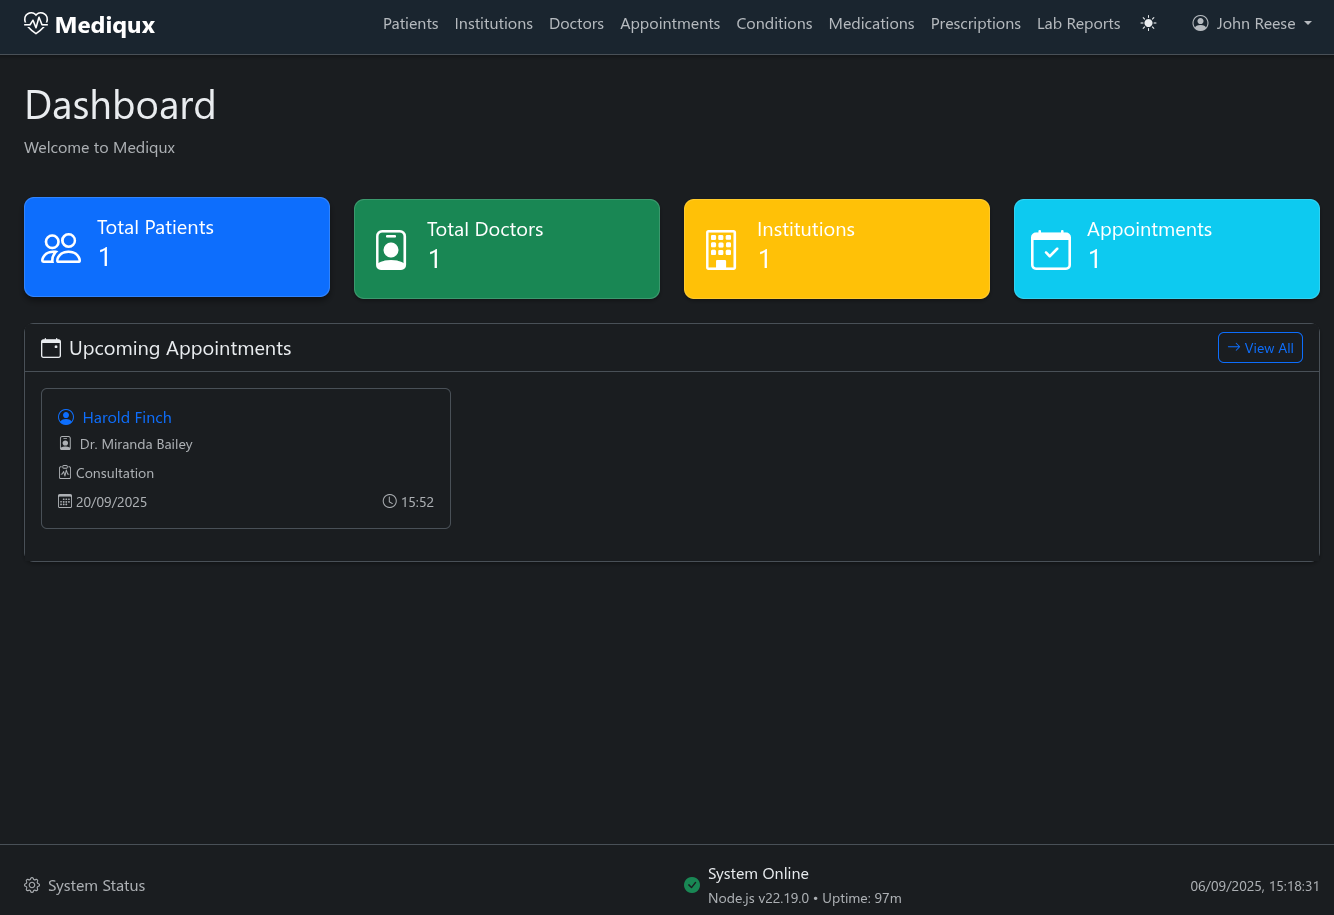
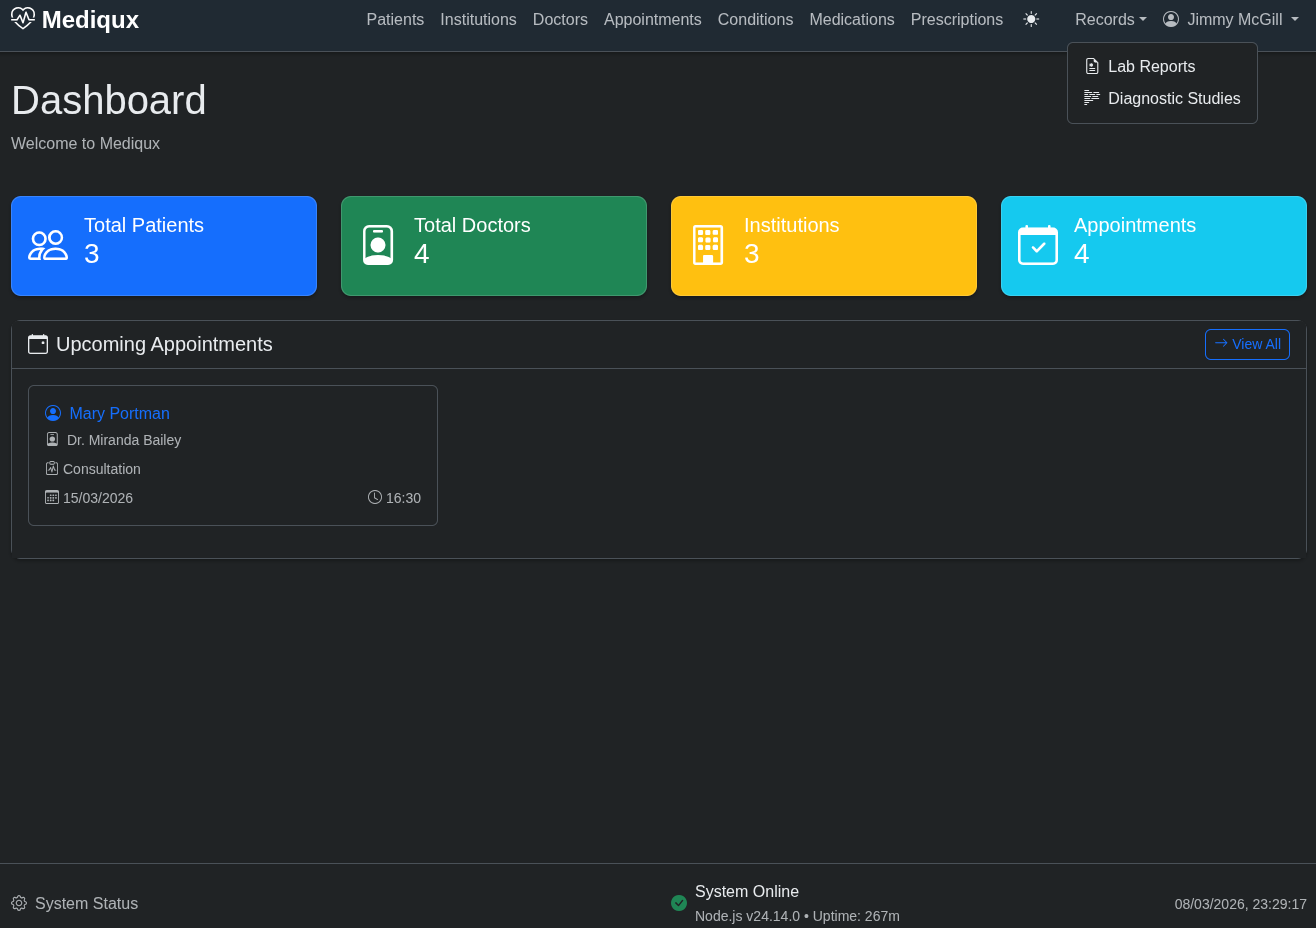
docs: updated screenshot to resemble the latest version

diff --git a/SCREENSHOTS.md b/SCREENSHOTS.md
@@ -139,11 +139,26 @@ Advanced lab report system with:
 
 ---
 
+## 🩻 Diagnostic Studies
+
+**Diagnostic Imaging & Studies**
+
+![Diagnostic Studies](screenshots/11_diagnostic_studies.png)
+
+Diagnostic studies management for imaging and clinical investigations:
+- Upload and store diagnostic reports (PDF, images)
+- Track study types (X-Ray, MRI, CT Scan, Ultrasound, ECG, and more)
+- Link studies to patients and ordering doctors
+- Secure authenticated file viewing directly in the browser
+- Study date, notes, and attachment management
+
+---
+
 ## 👤 User Management
 
 **System Administration**
 
-![Users](screenshots/11_users.png)
+![Users](screenshots/12_users.png)
 
 User management and system administration:
 - User account creation and management
